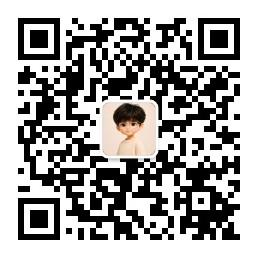
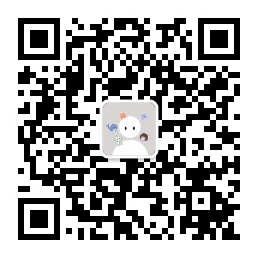
Update WeChat public account QR code

Changed region(s): [[0.4031, 0.4031, 0.6202, 0.6202]]

diff --git a/index.html b/index.html
@@ -182,7 +182,7 @@
                 <aside class="wechat-note" id="wechat-note" data-wechat-note aria-label="公众号二维码" aria-hidden="true" inert>
                   <p class="wechat-note-title">微信公众号</p>
                   <div class="wechat-qr-frame">
-                    <img src="assets/wechat-qrcode.jpg" width="258" height="258" loading="lazy" alt="清晨的微信公众号二维码">
+                    <img src="assets/wechat-qrcode.jpg?v=2" width="258" height="258" loading="lazy" alt="清晨的微信公众号二维码">
                   </div>
                   <p class="wechat-note-caption">微信扫码关注「清晨」</p>
                   <button class="wechat-note-close" type="button" data-wechat-close><span aria-hidden="true">←</span> 收起</button>
